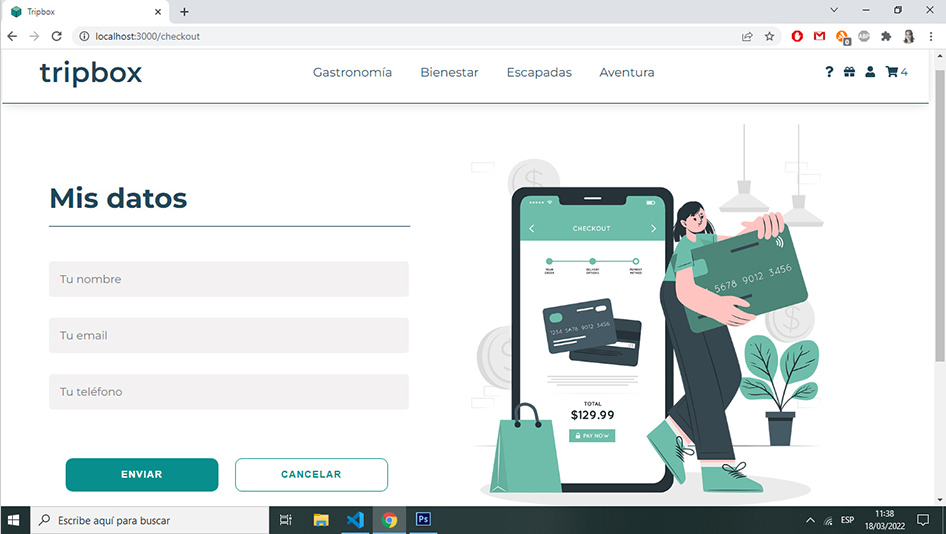
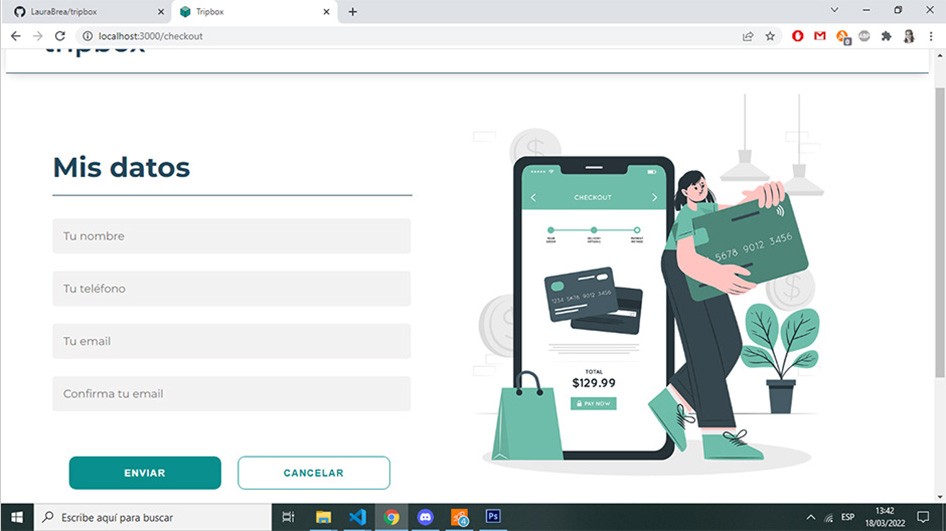
ajustes form

diff --git a/src/components/Checkout/Checkout.js b/src/components/Checkout/Checkout.js
@@ -13,6 +13,8 @@ export const Checkout = () => {
     const {cart, totalCart, deleteCart} = useContext(CartContext);
 
     const [orderId, setOrderId] = useState(null);
+    const [mailConfirmation, setMailConfirmation] = useState("");
+
 
     const [values, setValues] = useState({
         nombre: '',
@@ -48,14 +50,7 @@ export const Checkout = () => {
                         value={values.nombre}
                         onChange={handleInputChange}
                         name='nombre'
-                    />
-                    <input
-                        className="checkFormtxt"
-                        type='email'
-                        placeholder="Tu email"
-                        value={values.email}
-                        onChange={handleInputChange}
-                        name='email'
+                        enterKeyHint="next"
                     />
                     <input
                         className="checkFormtxt"
@@ -64,8 +59,27 @@ export const Checkout = () => {
                         value={values.tel}
                         onChange={handleInputChange}
                         name='tel'
+                        enterKeyHint="next"
                     />
-                    <button type="submit" className="checkBtn"> Enviar </button>
+                    <input
+                        className="checkFormtxt"
+                        type='email'
+                        placeholder="Tu email"
+                        value={values.email}
+                        onChange={handleInputChange}
+                        name='email'
+                        enterKeyHint="next"
+                    />
+                    <input
+                        className="checkFormtxt"
+                        type='email'
+                        placeholder="Confirma tu email"
+                        value={mailConfirmation}
+                        onChange={(e) => setMailConfirmation(e.target.value)}
+                        name='checkemail'
+                        enterKeyHint="done"
+                    />
+                    <button type="submit" className="checkBtn" disabled={mailConfirmation !== values.email}> Enviar </button>
                     <Link to='/'><button className="checkBtnNg" onClick={deleteCart}>Cancelar</button></Link>
                 </form>
             </div>

diff --git a/src/App.js b/src/App.js
@@ -14,24 +14,23 @@ import { Checkout } from "./components/Checkout/Checkout"
 function App() {
 
   return (
-
-    <CartProvider>
-        <BrowserRouter>
-            <NavBar/>
-            <Routes>
-                <Route path='/' element={ <ItemListContainer/> } />
-                <Route path='/categoria/:catId' element={ <ItemListContainer/> } />
-                <Route path='/detalle/:itemId' element={ <ItemDetailContainer/> }/>
-                <Route path='/pages/informacion' element={ <Informacion/> } />
-                <Route path='/pages/regalos' element={ <Regalos/> } />
-                <Route path='*' element={ <Navigate to='/'/> }/>
-                <Route path='/cart' element={ <Cart/> } />
-                <Route path='/checkout' element={ <Checkout/> } />
-                <Route path='/404' element={ <Error/> }/>
-            </Routes>
-            <Footer/>
-        </BrowserRouter>
-      </CartProvider>
+      <CartProvider>
+          <BrowserRouter>
+              <NavBar/>
+              <Routes>
+                  <Route path='/' element={ <ItemListContainer/> } />
+                  <Route path='/categoria/:catId' element={ <ItemListContainer/> } />
+                  <Route path='/detalle/:itemId' element={ <ItemDetailContainer/> }/>
+                  <Route path='/pages/informacion' element={ <Informacion/> } />
+                  <Route path='/pages/regalos' element={ <Regalos/> } />
+                  <Route path='*' element={ <Navigate to='/'/> }/>
+                  <Route path='/cart' element={ <Cart/> } />
+                  <Route path='/checkout' element={ <Checkout/> } />
+                  <Route path='/404' element={ <Error/> }/>
+              </Routes>
+              <Footer/>
+          </BrowserRouter>
+        </CartProvider>
   );
 }
 

diff --git a/src/components/Checkout/validate.js b/src/components/Checkout/validate.js
@@ -8,13 +8,6 @@ export const validate = (values) => {
           });
         return false
     }
-    if (values.email.length < 7) {
-        swal("Ups!...", "El mail ingresado es incorrecto", {
-            buttons: false,
-            timer: 1500,
-          });
-        return false
-    }
     if (values.tel.length < 8) {
         swal("Ups!...", "El teléfono ingresado es incorrecto", {
             buttons: false,
@@ -22,5 +15,12 @@ export const validate = (values) => {
           });
         return false
     }
+    if (values.email.length < 7) {
+      swal("Ups!...", "El mail ingresado es incorrecto", {
+          buttons: false,
+          timer: 1500,
+        });
+      return false
+  }
   return true
 }

diff --git a/src/components/Checkout/Checkout.css b/src/components/Checkout/Checkout.css
@@ -43,8 +43,8 @@
   }
 
 .checkForm {
-  margin-top: 50px;
-  margin-bottom: 50px;
+  margin-top: 30px;
+  margin-bottom: 30px;
   }
 
 .checkForm input {
@@ -55,8 +55,8 @@
   padding-left: 1em;
   font-size: 1rem;
   border-radius: 5px;
-  margin-top: 30px;
-  margin-bottom: 30px;
+  margin-top: 25px;
+  margin-bottom: 25px;
   display: flex;
   flex-direction: column;
   width: 500px;
@@ -82,7 +82,7 @@
   font-weight: 700;
   height: 3.5em;
   margin-left: 1.5rem;
-  margin-top: 40px;
+  margin-top: 30px;
   width: 220px;
 }
 .checkBtnNg{
